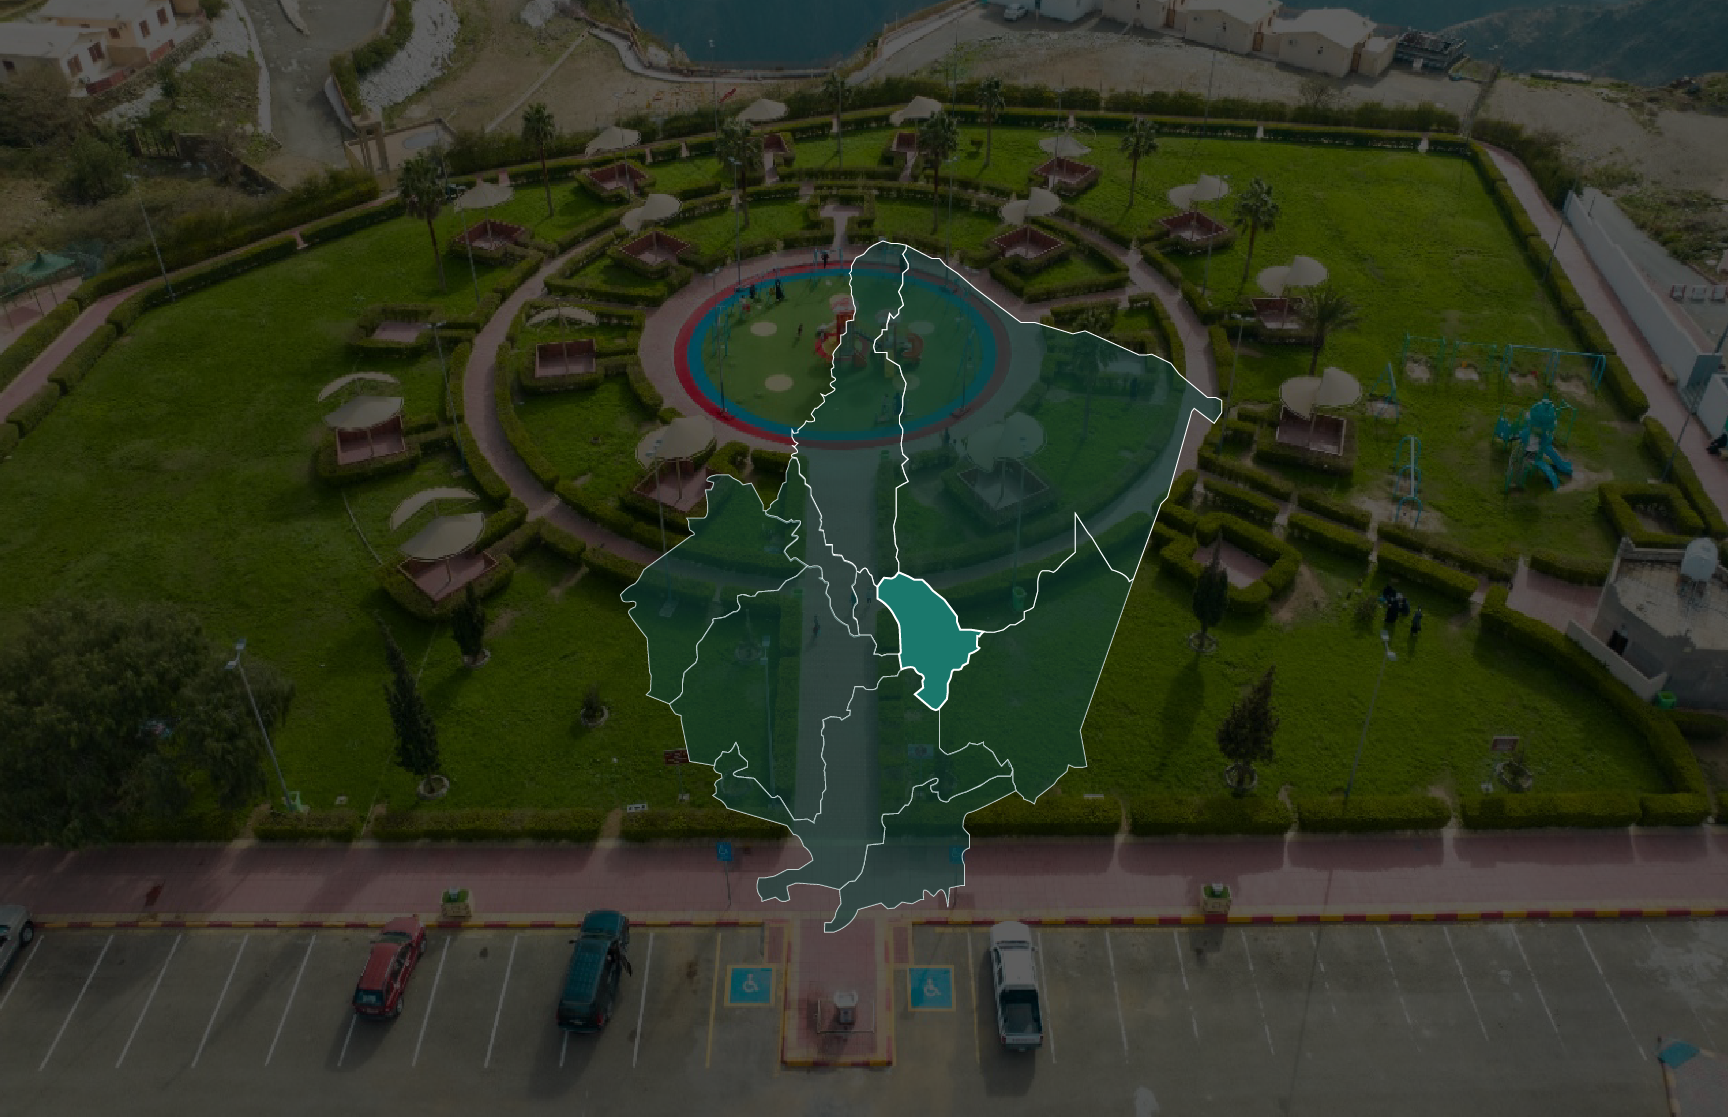
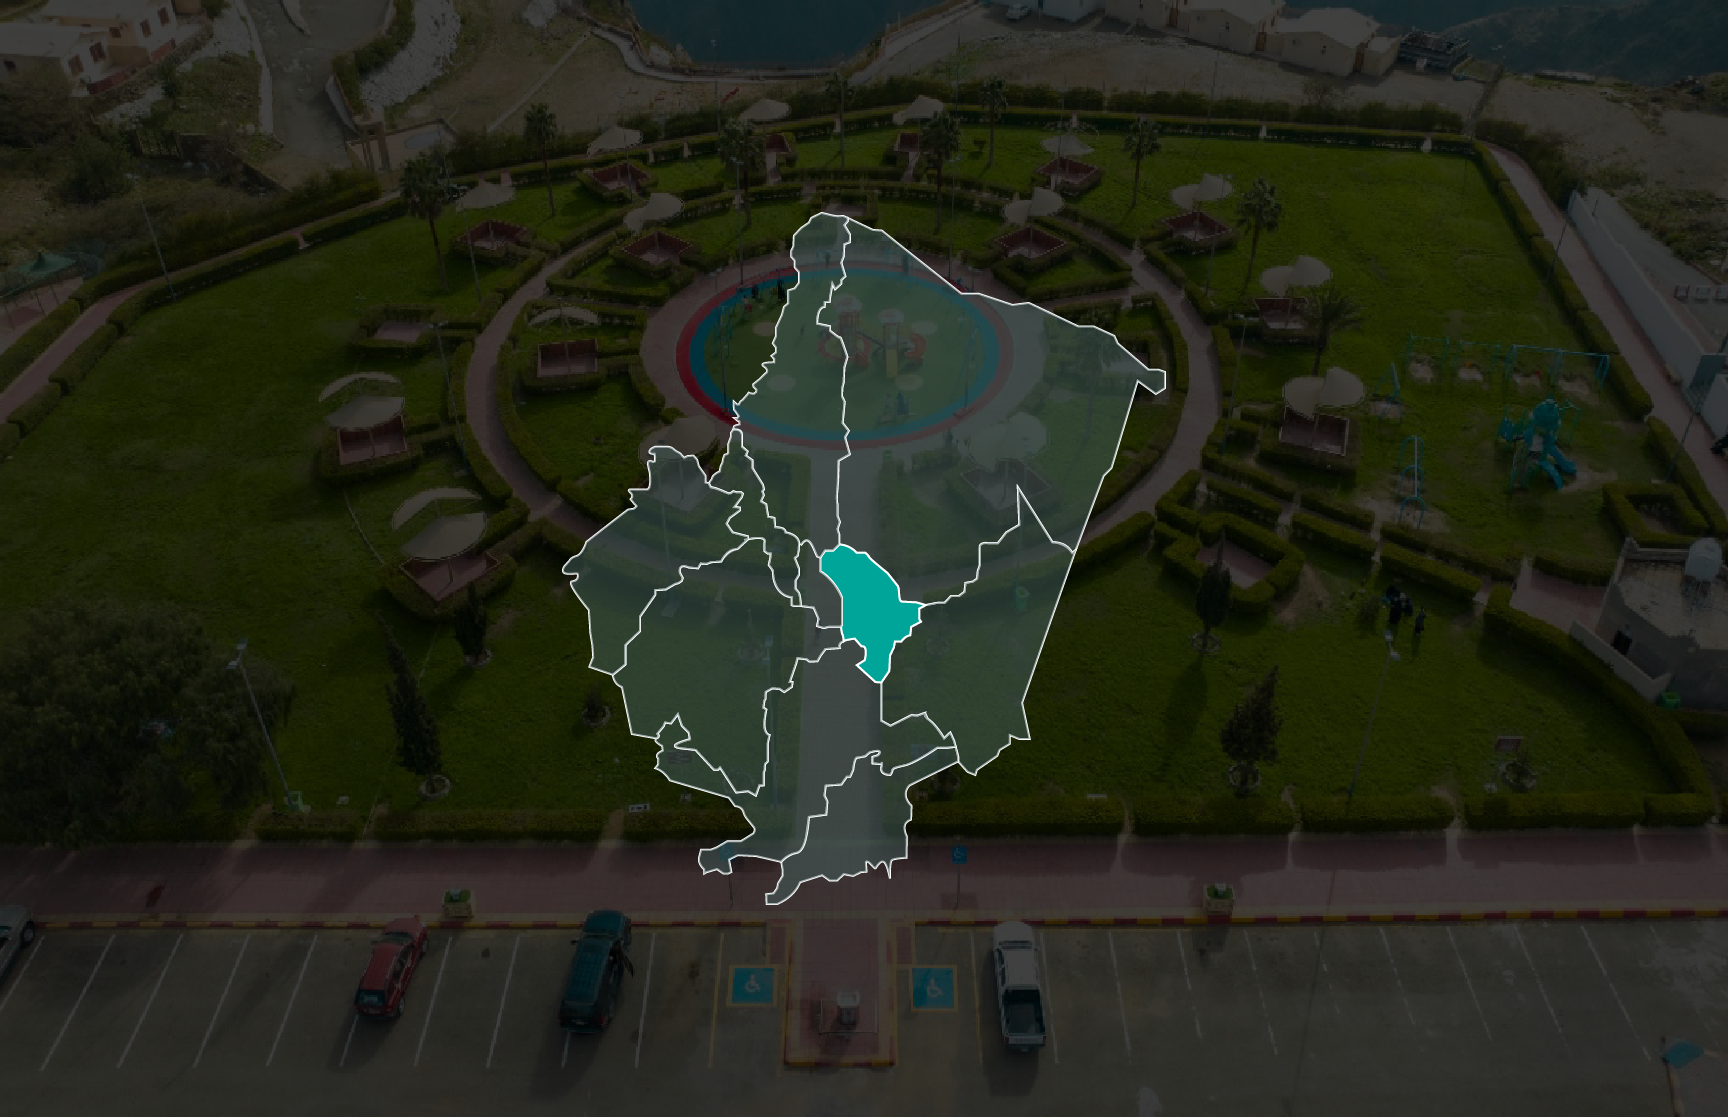
albaha stats v2.0

diff --git a/components/homepage/Mapping.jsx b/components/homepage/Mapping.jsx
@@ -1,6 +1,6 @@
 "use client";
 import { useState } from "react";
-
+import { albaha_states_data } from "./albaha_states_data";
 export const Mapping = ({
   setCurrentArea,
   showContent,
@@ -9,7 +9,7 @@ export const Mapping = ({
 }) => {
   const [temp, setTemp] = useState(null);
   return (
-    <div className="w-[550px] h-full absolute left-1/2  transform -translate-x-1/2 -top-6 ">
+    <div className="w-[550px]  h-full absolute left-[50%]  transform -translate-x-1/2 -top-6 text-sm font-obld">
       {showContent && (
         <div className="relative">
           <div
@@ -26,7 +26,12 @@ export const Mapping = ({
               setCurrentArea(null);
               setClickedArea(temp);
             }}
-            className="absolute hogra left-7 top-60 w-[100px] h-[100px] cursor-pointer"></div>
+            className="absolute flexify  hogra left-7 top-60 w-[100px] h-[100px] cursor-pointer ">
+            {
+              albaha_states_data.find((item) => item.state === "hogra").name
+                .arabic
+            }
+          </div>
 
           <div
             onClick={() => {
@@ -42,7 +47,12 @@ export const Mapping = ({
               setCurrentArea(null);
               setClickedArea(temp);
             }}
-            className="absolute mandak left-40 top-[210px] w-[50px] h-[100px] cursor-pointer"></div>
+            className="absolute flexify  mandak left-40 top-[210px] w-[50px] h-[100px] cursor-pointer">
+            {
+              albaha_states_data.find((item) => item.state === "mandak").name
+                .arabic
+            }
+          </div>
 
           <div
             onClick={() => {
@@ -58,7 +68,12 @@ export const Mapping = ({
               setCurrentArea(null);
               setClickedArea(temp);
             }}
-            className="absolute kora left-40 top-[100px] w-[100px] h-[150px] cursor-pointer"></div>
+            className="absolute flexify  kora left-40 top-[100px] w-[100px] h-[150px] cursor-pointer">
+            {
+              albaha_states_data.find((item) => item.state === "kora").name
+                .arabic
+            }
+          </div>
 
           <div
             onClick={() => {
@@ -74,7 +89,12 @@ export const Mapping = ({
               setCurrentArea(null);
               setClickedArea(temp);
             }}
-            className="absolute akik left-60 top-[130px] w-[150px] h-[150px] cursor-pointer"></div>
+            className="absolute flexify  akik left-60 top-[130px] w-[150px] h-[150px] cursor-pointer">
+            {
+              albaha_states_data.find((item) => item.state === "akik").name
+                .arabic
+            }
+          </div>
 
           <div
             onClick={() => {
@@ -90,7 +110,12 @@ export const Mapping = ({
               setCurrentArea(null);
               setClickedArea(temp);
             }}
-            className="absolute banyhasan left-50 top-[250px] w-[50px] h-[100px] cursor-pointer"></div>
+            className="absolute flexify  banyhasan left-[190px] top-[270px] w-[50px] h-[100px] cursor-pointer">
+            {
+              albaha_states_data.find((item) => item.state === "banyhasan").name
+                .arabic
+            }
+          </div>
 
           <div
             onClick={() => {
@@ -106,7 +131,12 @@ export const Mapping = ({
               setCurrentArea(null);
               setClickedArea(temp);
             }}
-            className="absolute kalwa left-20 top-80 w-[100px] h-[100px] cursor-pointer"></div>
+            className="absolute flexify  kalwa left-20 top-80 w-[100px] h-[100px] cursor-pointer">
+            {
+              albaha_states_data.find((item) => item.state === "kalwa").name
+                .arabic
+            }
+          </div>
 
           <div
             onClick={() => {
@@ -122,7 +152,12 @@ export const Mapping = ({
               setCurrentArea(null);
               setClickedArea(temp);
             }}
-            className="absolute makhwa left-44 top-100 w-[100px] h-[100px] cursor-pointer"></div>
+            className="absolute flexify  makhwa left-44 top-100 w-[100px] h-[100px] cursor-pointer">
+            {
+              albaha_states_data.find((item) => item.state === "makhwa").name
+                .arabic
+            }
+          </div>
 
           <div
             onClick={() => {
@@ -138,7 +173,12 @@ export const Mapping = ({
               setCurrentArea(null);
               setClickedArea(temp);
             }}
-            className="absolute ghamed left-60 top-120 w-[100px] h-[100px] cursor-pointer"></div>
+            className="absolute flexify  ghamed left-60 top-120 w-[100px] h-[100px] cursor-pointer">
+            {
+              albaha_states_data.find((item) => item.state === "ghamed").name
+                .arabic
+            }
+          </div>
 
           <div
             onClick={() => {
@@ -154,7 +194,13 @@ export const Mapping = ({
               setCurrentArea(null);
               setClickedArea(temp);
             }}
-            className="absolute balghrshy left-80 top-90 w-[100px] h-[100px] cursor-pointer"></div>
+            className="absolute flexify  balghrshy left-80 top-90 w-[100px] h-[100px] cursor-pointer">
+            {" "}
+            {
+              albaha_states_data.find((item) => item.state === "balghrshy").name
+                .arabic
+            }
+          </div>
 
           <div
             onClick={() => {
@@ -170,7 +216,12 @@ export const Mapping = ({
               setCurrentArea(null);
               setClickedArea(temp);
             }}
-            className="absolute baha left-64 top-80 w-[50px] h-[100px] cursor-pointer"></div>
+            className="absolute flexify  baha left-64 top-80 w-[50px] h-[100px] cursor-pointer">
+            {
+              albaha_states_data.find((item) => item.state === "baha").name
+                .arabic
+            }
+          </div>
         </div>
       )}
     </div>

diff --git a/components/homepage/albaha_states_data.jsx b/components/homepage/albaha_states_data.jsx
@@ -2,6 +2,7 @@ export const albaha_states_data = [
   {
     image: "/assets/home/stats/albaha_states/العقيق.png",
     state: "akik",
+    name: { english: "Al Aqiq", arabic: "العقيق" },
     state_info: [
       {
         info: "المساحة",
@@ -32,6 +33,7 @@ export const albaha_states_data = [
   {
     image: "/assets/home/stats/albaha_states/الباحة.png",
     state: "baha",
+    name: { english: "Al Baha", arabic: "الباحة" },
     state_info: [
       {
         info: "المساحة",
@@ -62,6 +64,7 @@ export const albaha_states_data = [
   {
     image: "/assets/home/stats/albaha_states/بلجراشي.png",
     state: "balghrshy",
+    name: { english: "Baljurashi", arabic: "بلجراشي" },
     state_info: [
       {
         info: "المساحة",
@@ -92,6 +95,7 @@ export const albaha_states_data = [
   {
     image: "/assets/home/stats/albaha_states/بني حسن.png",
     state: "banyhasan",
+    name: { english: "Bani Hasan", arabic: "بني حسن" },
     state_info: [
       {
         info: "المساحة",
@@ -122,6 +126,7 @@ export const albaha_states_data = [
   {
     image: "/assets/home/stats/albaha_states/غامد الزناد.png",
     state: "ghamed",
+    name: { english: "Ghamid Al-Zinad", arabic: "غامد الزناد" },
     state_info: [
       {
         info: "المساحة",
@@ -152,6 +157,7 @@ export const albaha_states_data = [
   {
     image: "/assets/home/stats/albaha_states/الحجرة.png",
     state: "hogra",
+    name: { english: "Al Hujrah", arabic: "الحجرة" },
     state_info: [
       {
         info: "المساحة",
@@ -182,6 +188,7 @@ export const albaha_states_data = [
   {
     image: "/assets/home/stats/albaha_states/قلوة.png",
     state: "kalwa",
+    name: { english: "Qilwah", arabic: "قلوة" },
     state_info: [
       {
         info: "المساحة",
@@ -212,6 +219,7 @@ export const albaha_states_data = [
   {
     image: "/assets/home/stats/albaha_states/القري.png",
     state: "kora",
+    name: { english: "Al Qura", arabic: "القري" },
     state_info: [
       {
         info: "المساحة",
@@ -242,6 +250,7 @@ export const albaha_states_data = [
   {
     image: "/assets/home/stats/albaha_states/المخواة.png",
     state: "makhwa",
+    name: { english: "Al Makhwah", arabic: "المخواة" },
     state_info: [
       {
         info: "المساحة",
@@ -272,6 +281,7 @@ export const albaha_states_data = [
   {
     image: "/assets/home/stats/albaha_states/المندق.png",
     state: "mandak",
+    name: { english: "Al Mandaq", arabic: "المندق" },
     state_info: [
       {
         info: "المساحة",

diff --git a/components/homepage/AlbahaStats.jsx b/components/homepage/AlbahaStats.jsx
@@ -68,7 +68,7 @@ export default function AlbahaStats() {
                   alt="background"
                   fill
                   priority
-                  objectFit="cover"
+                  className="object-cover object-center"
                   quality={100}
                 />
               </motion.div>
@@ -94,7 +94,7 @@ export default function AlbahaStats() {
                     alt=""
                     fill
                     priority
-                    objectFit="cover"
+                    className="object-cover object-center"
                     quality={100}
                   />
                 </motion.div>
